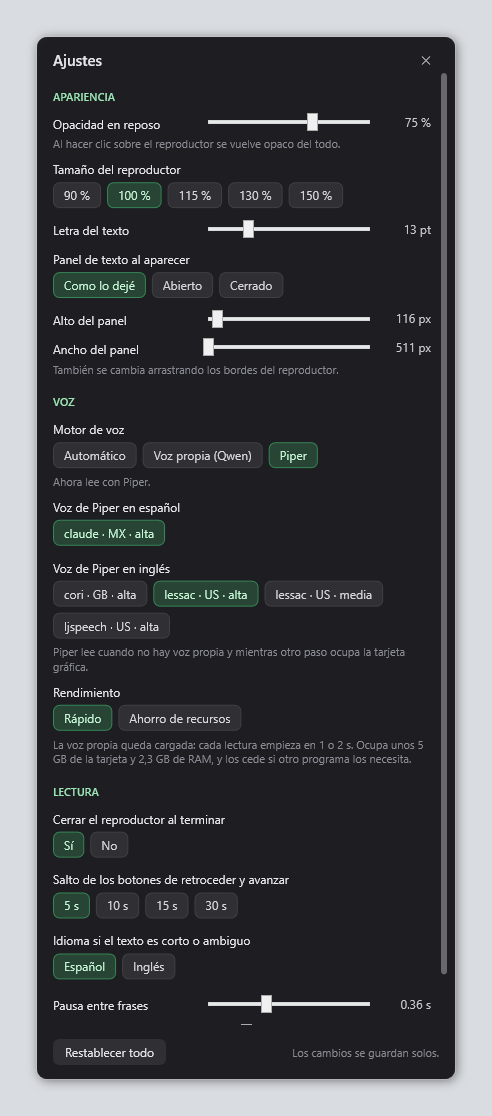
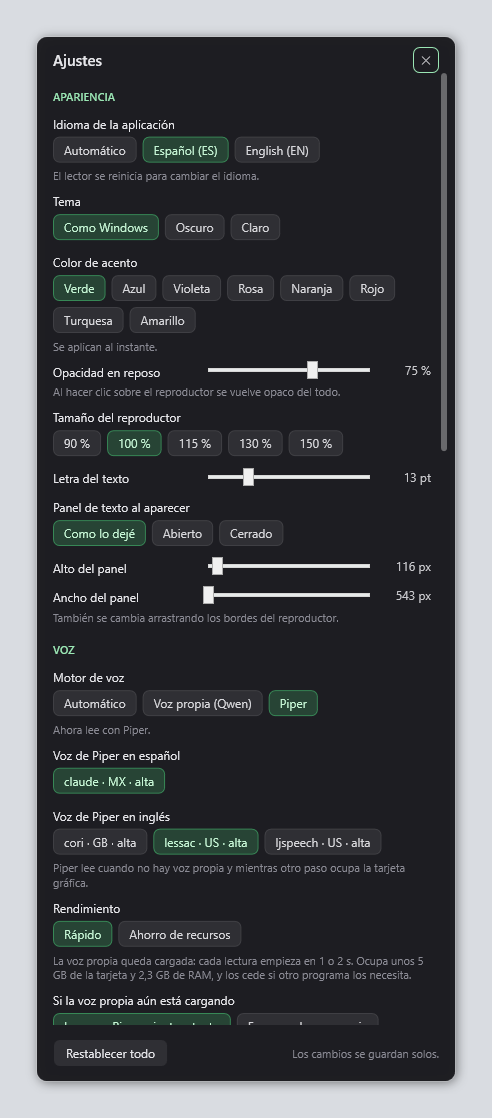
Documentacion de la 1.3: capturas nuevas, README y CHANGELOG
- Capturas nuevas del reproductor, el panel de texto y los ajustes (apariencia,
  pronunciacion, atajos y Acerca de), tomadas con Piper y sobre un fondo
  neutro (escenario.ps1 ahora cubre tambien la barra de tareas).
- README en ingles y español: la bandeja, el instalador y el acceso del
  escritorio, los atajos que se graban desde los ajustes, y que ningun cambio
  del panel pide reiniciar. docs/configuracion.md igual.
- VERSION 1.3.0 y su entrada del CHANGELOG.

diff --git a/README.md b/README.md
@@ -32,10 +32,9 @@ Ctrl+Shift+] and [  faster or slower
 ```
 
 Read Aloud keeps an icon in the system tray, next to the clock: it shows that
-it is running, opens the settings, and "Salir de Read Aloud" closes it
-completely. The shortcuts can be changed in
-[config/settings.psd1](config/settings.psd1) (`HotkeyRead`, `HotkeyStop`, ...;
-see [docs/configuracion.md](docs/configuracion.md#atajos-de-teclado)).
+it is running, opens the settings, and "Quit Read Aloud" closes it
+completely. Every shortcut can be changed from the settings (click it and press
+the new combination).
 
 While it reads, a small bar stays on top of all windows, with pause, skip,
 speed and position. It closes on its own when the reading ends.
@@ -50,12 +49,19 @@ can be resized from any side or corner, and it moves with the tab on top.
 
 ![The text panel: the current sentence highlighted and what was read dimmed](docs/media/panel.png)
 
-The gear button opens the settings: opacity, size, font, the voice and the
-performance mode (the voice always loaded, or loaded only while reading to
-save resources). See
-[docs/configuracion.md](docs/configuracion.md#panel-de-ajustes) (in Spanish).
+The gear button (or the desktop shortcut the installer can create) opens the
+settings. Everything applies at once, with no restart: language, theme and
+accent color, opacity, size and font; the voice, engine and performance mode;
+pauses; the keyboard shortcuts; and a pronunciation dictionary where you can
+search every word, change how it is said for each language and each voice, and
+test it. See [docs/configuracion.md](docs/configuracion.md#panel-de-ajustes) (in
+Spanish).
 
-<img src="docs/media/ajustes.png" width="320" alt="The settings panel">
+<p>
+  <img src="docs/media/ajustes.png" width="300" alt="The settings panel: appearance and voice">
+  <img src="docs/media/ajustes_pronunciacion.png" width="300" alt="The settings panel: reading and pronunciation">
+  <img src="docs/media/ajustes_atajos.png" width="300" alt="The settings panel: dictionary, keyboard shortcuts and About">
+</p>
 
 
 The detailed documentation in [docs/](docs/) is in Spanish.
@@ -227,10 +233,10 @@ chunk size, pauses and skip seconds. Settings that belong to your machine, such
 as the custom voice folder, go in `config/settings.local.psd1`, which Git
 ignores.
 
-Some changes apply only after restarting the resident process. When you make
-one in the panel, it offers a "Reiniciar ahora" (restart now) button. After
-editing `settings.psd1`, close the process from the console and the next
-reading starts it again:
+Nothing you change in the panel needs a restart (only the interface language
+restarts the reader by itself). After editing `settings.psd1` by hand, close the
+process from the console, or with "Close Read Aloud" in the Start menu, and the
+next reading starts it again:
 
 ```powershell
 . .\lib\ReadAloud.Core.ps1

diff --git a/README.es.md b/README.es.md
@@ -33,9 +33,8 @@ Ctrl+Shift+] y [    subir o bajar la velocidad
 
 Read Aloud deja un icono en la bandeja del sistema, junto al reloj: muestra
 que está activo, abre los ajustes y "Salir de Read Aloud" lo cierra del todo.
-Los atajos se cambian en [config/settings.psd1](config/settings.psd1)
-(`HotkeyRead`, `HotkeyStop`, ...; ver
-[docs/configuracion.md](docs/configuracion.md#atajos-de-teclado)).
+Cada atajo se cambia desde los ajustes (haz clic en él y pulsa la combinación
+nueva).
 
 Mientras lee aparece una barra pequeña sobre todas las ventanas, con pausa,
 avance, retroceso, velocidad y posición. Se cierra sola al terminar.
@@ -51,11 +50,19 @@ pestaña de arriba.
 
 ![El panel de texto: la frase que suena resaltada y lo ya leído atenuado](docs/media/panel.png)
 
-El botón de la tuerca abre los ajustes: opacidad, tamaño, letra, la voz y el
-rendimiento (la voz siempre lista, o cargada solo al leer para no ocupar
-recursos). Ver [docs/configuracion.md](docs/configuracion.md#panel-de-ajustes).
+El botón de la tuerca (o el acceso directo del escritorio que puede crear el
+instalador) abre los ajustes. Todo se aplica al instante, sin reiniciar: el
+idioma, el tema y el color de acento, la opacidad, el tamaño y la letra; la
+voz, el motor y el rendimiento; las pausas; los atajos de teclado; y un
+diccionario de pronunciación donde puedes buscar cualquier palabra, cambiar
+cómo se dice en cada idioma y con cada voz, y probarla. Ver
+[docs/configuracion.md](docs/configuracion.md#panel-de-ajustes).
 
-<img src="docs/media/ajustes.png" width="320" alt="El panel de ajustes">
+<p>
+  <img src="docs/media/ajustes.png" width="300" alt="El panel de ajustes: apariencia y voz">
+  <img src="docs/media/ajustes_pronunciacion.png" width="300" alt="El panel de ajustes: lectura y pronunciación">
+  <img src="docs/media/ajustes_atajos.png" width="300" alt="El panel de ajustes: diccionario, atajos de teclado y Acerca de">
+</p>
 
 ## Qué tiene por dentro
 
@@ -223,10 +230,10 @@ está en [config/settings.psd1](config/settings.psd1): velocidad, voces, tamaño
 de los fragmentos, pausas y segundos de salto. Lo que es de tu equipo, como la
 carpeta de la voz propia, va en `config/settings.local.psd1`, que Git ignora.
 
-Algunos cambios se aplican al reiniciar el proceso residente. Si haces uno en
-el panel, aparece el botón "Reiniciar ahora". Después de editar
-`settings.psd1`, cierra el proceso desde la consola y la próxima lectura lo
-vuelve a arrancar:
+Nada de lo que cambias en el panel pide reiniciar (solo el idioma de la
+interfaz reinicia el lector, solo). Después de editar `settings.psd1` a mano,
+cierra el proceso desde la consola, o con "Cerrar Read Aloud" del menú Inicio, y
+la próxima lectura lo vuelve a arrancar:
 
 ```powershell
 . .\lib\ReadAloud.Core.ps1

diff --git a/CHANGELOG.md b/CHANGELOG.md
@@ -7,6 +7,30 @@ and this project adheres to [Semantic Versioning](https://semver.org/spec/v2.0.0
 
 ## [Unreleased]
 
+## [1.3.0] - 2026-11-07
+
+Fixes found while testing 1.2 and new screenshots.
+
+### Fixed
+
+- The volume fader follows the mouse when you press on the track and keep
+  dragging (before, only dragging the knob itself worked).
+- Shortcuts with `[` or `]` (or any key that needs Shift or AltGr to type on
+  your keyboard layout) are registered with the modifiers that layout needs, so
+  they match what you press on Latin American and other non-US keyboards.
+- The SHA-256 check of an update no longer depends on `Get-FileHash`, which
+  fails in a process started from a PowerShell 7 terminal ("Download and
+  install" in the settings). Checked end to end against the real release.
+- The release workflow uses the Inno Setup that the Windows runner already has
+  (1.2.0 first failed trying to downgrade it).
+
+### Changed
+
+- New screenshots of the player, the text panel and the settings (appearance,
+  pronunciation, shortcuts and About), and an updated README: the tray icon,
+  the installer and the desktop shortcut, shortcuts recorded from the settings
+  and settings that no longer need a restart.
+
 ## [1.2.0] - 2026-11-07
 
 Read Aloud for anyone: no AutoHotkey, an installer, and everything adjustable
@@ -189,7 +213,8 @@ First public version.
 - GitHub Actions running Pester, PSScriptAnalyzer, ruff and gitleaks over the
   whole history, with every action pinned to a commit.
 
-[Unreleased]: https://github.com/DuqueOM/read_aloud/compare/v1.2.0...HEAD
+[Unreleased]: https://github.com/DuqueOM/read_aloud/compare/v1.3.0...HEAD
+[1.3.0]: https://github.com/DuqueOM/read_aloud/releases/tag/v1.3.0
 [1.2.0]: https://github.com/DuqueOM/read_aloud/releases/tag/v1.2.0
 [1.1.0]: https://github.com/DuqueOM/read_aloud/releases/tag/v1.1.0
 [1.0.0]: https://github.com/DuqueOM/read_aloud/releases/tag/v1.0.0

diff --git a/docs/configuracion.md b/docs/configuracion.md
@@ -24,8 +24,8 @@ El orden, de menos a más prioridad: los valores por defecto,
 
 Después de cambiar algo en `settings.psd1`, reinicia el proceso residente:
 ciérralo desde la consola y la próxima lectura lo vuelve a arrancar con los
-ajustes nuevos. (Los cambios hechos en el panel ofrecen su propio botón
-"Reiniciar ahora".)
+ajustes nuevos, o usa "Cerrar Read Aloud" del menú Inicio. (Los cambios hechos
+en el panel se aplican solos, sin reiniciar.)
 
 ```powershell
 . .\lib\ReadAloud.Core.ps1
